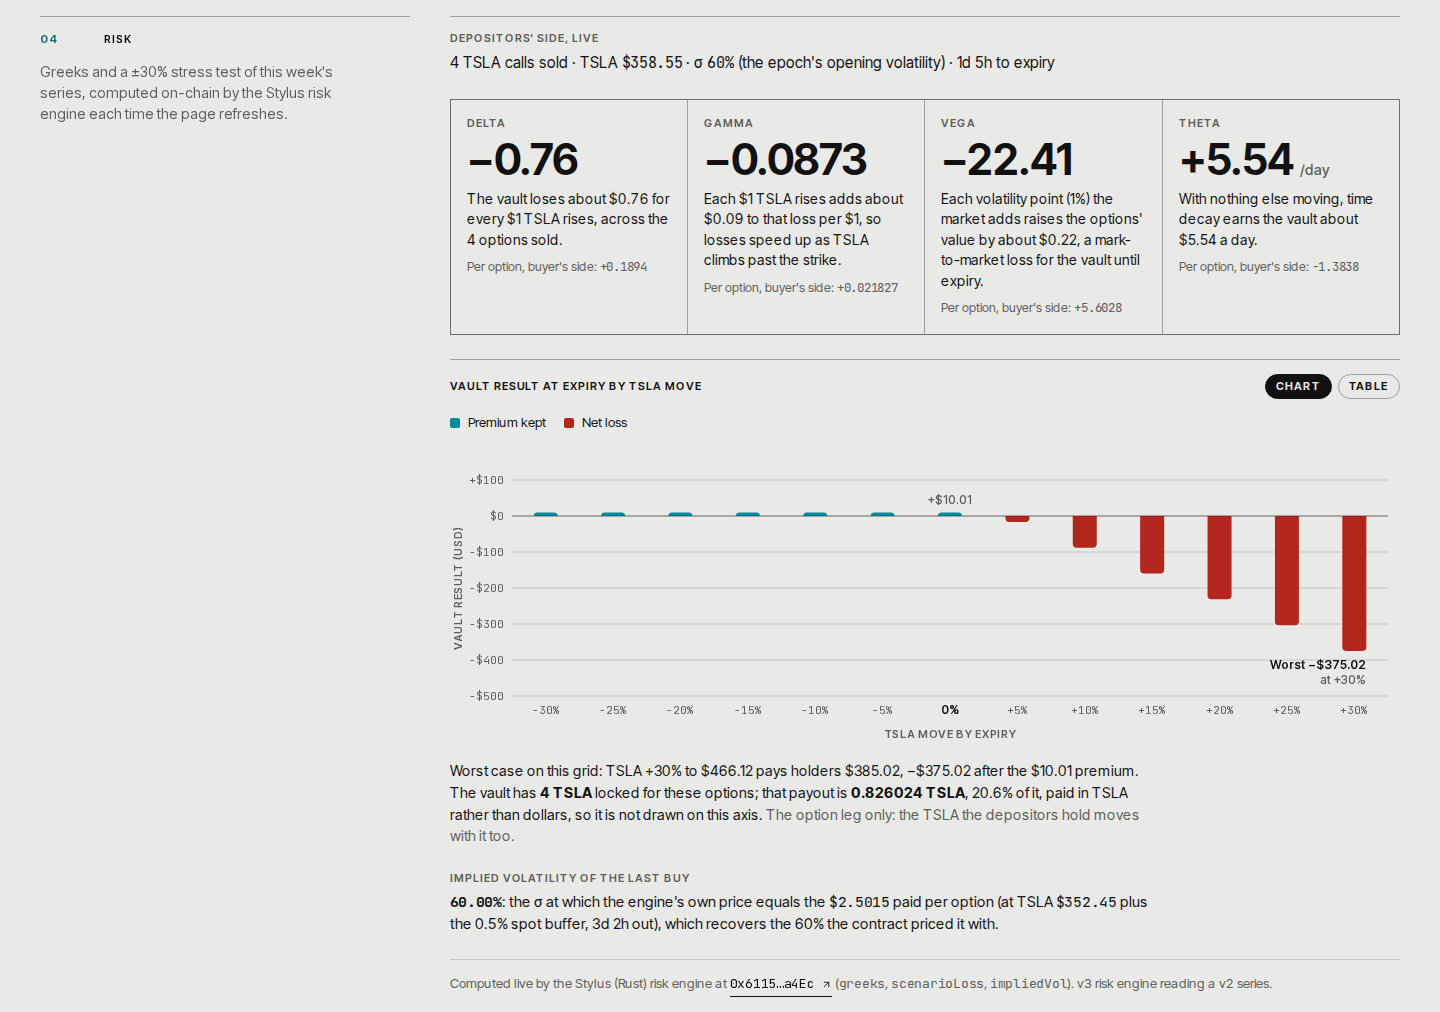
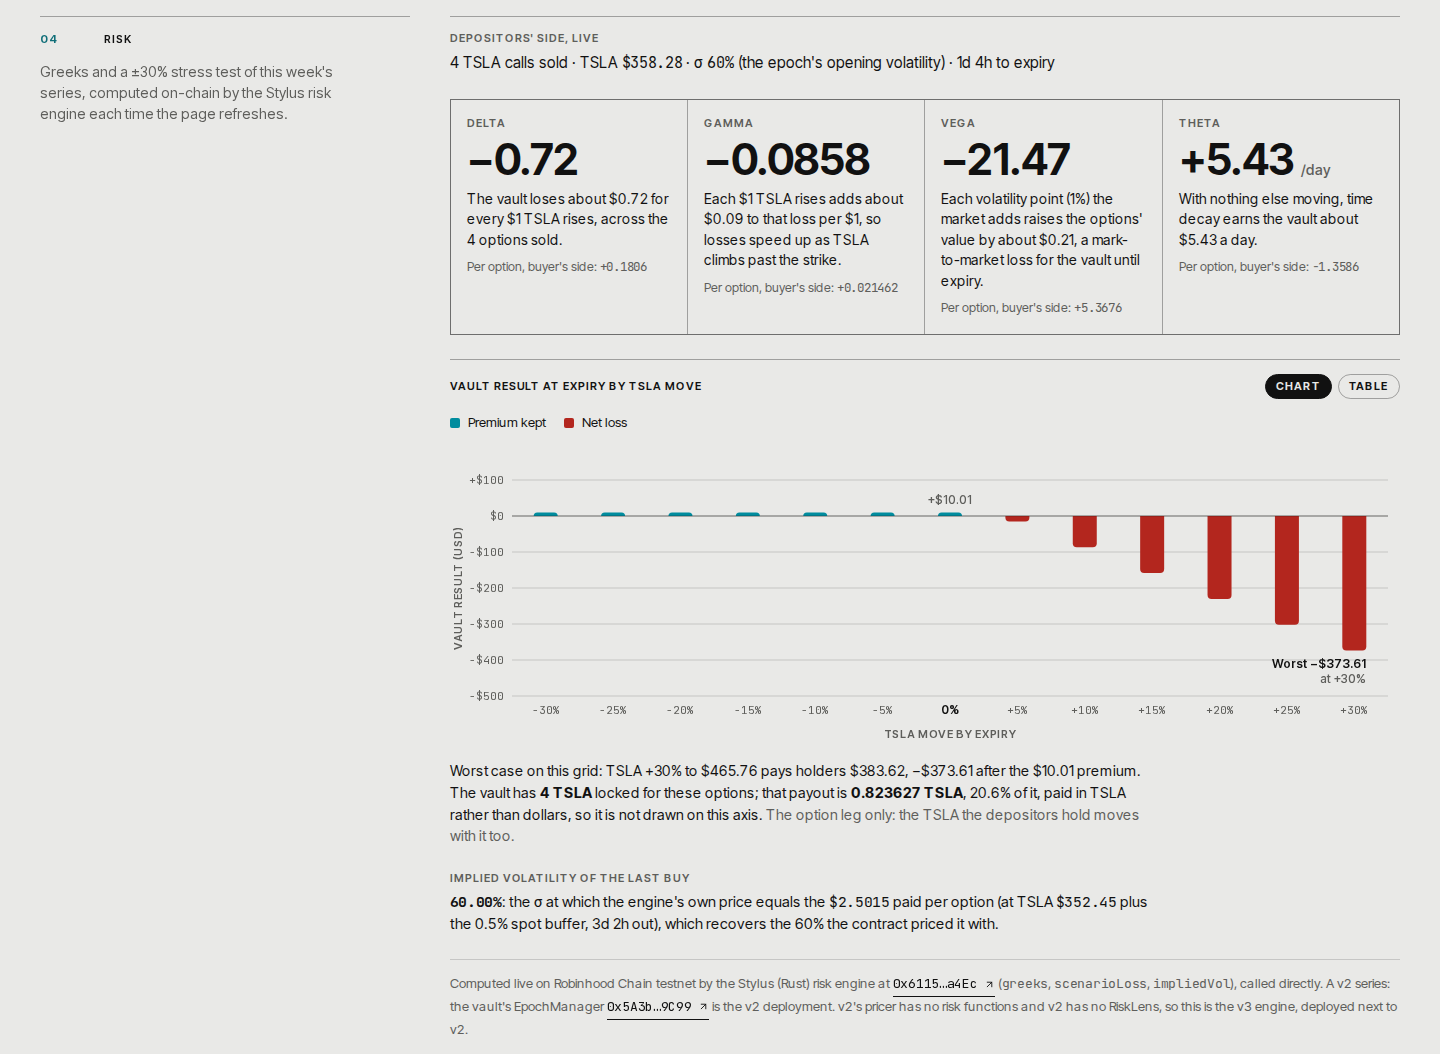
screenshots: risk panel retaken from strike-options.vercel.app on 2026-10-01 with the corrected footnote (v2 on Robinhood Chain testnet, engine called directly); new: the v3 risk panel on Arbitrum Sepolia, read through RiskLens.seriesRisk

diff --git a/README.md b/README.md
@@ -219,7 +219,7 @@ Checked against this repository and the chain on 2026-09-30. The milestone plan 
 - v3 on Robinhood Chain testnet next to v2, with its first epoch on 1 October ([log §7](docs/testnet-epochs/2026-09-30-v3.md#7-live-epoch-1-october)): Claude tried seven candidates, all inside the mandate, and chose 0.20 delta at 105% of fair value, accepted at $369.36 ([tx](https://explorer.testnet.chain.robinhood.com/tx/0xe823a351b82404077c126482ca61f6be9c1c461606b4626f55bea1898d335a45)); an at-the-money put was rejected with a 10 USDG slash, and the same transaction posted −10 feedback for identity #114 to the official ERC-8004 Reputation Registry ([tx](https://explorer.testnet.chain.robinhood.com/tx/0xa8b5eba59bbffd9203c9deab6053754df82f69396fbc03b41de2a9897de7efb2)); a separate buyer bought 4 calls for 7.38387 USDG. Both records are anchored in the v3 `DecisionLog`.
 - Agent #1 linked to ERC-8004 identity #114 on the official testnet Identity Registry.
 - Agent decisions anchored on-chain: the verified `DecisionLog` contract at [`0xbF94…5D93`](https://explorer.testnet.chain.robinhood.com/address/0xbF94f54fd0258ac59e2f54B70754dFAfFd245D93) stores the hash of each decision record, and the first anchor is the 29 September epoch log ([tx](https://explorer.testnet.chain.robinhood.com/tx/0x934ab96ba12a9ad501e20c8366fc338ab35d0550b88cc2d76fc5c39991c524c4), [tests](contracts/test/agents/DecisionLog.t.sol)).
-- A live risk panel on the vault page, the SDK's `seriesRisk` and the MCP tool `series_risk`: greeks, a ±30% stress test and the implied volatility of the last buy for the running series, computed on-chain by the v3 Stylus (Rust) risk engine ([`0x6115…a4ec`](https://explorer.testnet.chain.robinhood.com/address/0x61158d98c6c2b7ccb22755a098d0da2bbcf2a4ec)). The greeks match an independent scipy Black-Scholes to about 5e-15, and the last buy's implied volatility comes back as the 60% the contract priced it with ([test vector](sdk/test/risk.test.ts)).
+- A live risk panel on the vault page, the SDK's `seriesRisk` and the MCP tool `series_risk`: greeks, a ±30% stress test and the implied volatility of the last buy for the running series, computed on-chain by the v3 Stylus (Rust) risk engine: called directly for the v2 series on Robinhood Chain testnet ([`0x6115…a4ec`](https://explorer.testnet.chain.robinhood.com/address/0x61158d98c6c2b7ccb22755a098d0da2bbcf2a4ec)), and through `RiskLens.seriesRisk` for the v3 series on Arbitrum Sepolia ([`0x94aC…3ecE`](https://sepolia.arbiscan.io/address/0x94aC10fF1A71ceBfD825079aaf897858a9953ecE)). The panel's footnote names the contracts, the chain and the series' version. The greeks match an independent scipy Black-Scholes to about 5e-15, and the last buy's implied volatility comes back as the 60% the contract priced it with ([test vector](sdk/test/risk.test.ts)).
 - A `SafeStockFeed` conformance suite of 21 rules that any oracle wrapper can inherit and run ([`contracts/test/conformance`](contracts/test/conformance)).
 - The app at [strike-options.vercel.app](https://strike-options.vercel.app), including the mandate playground (no wallet), the mainnet stock-token monitor and the proof page.
 - Self-serve agent onboarding (register, bond, create a vault) from the app, the SDK, the MCP server and the example agent. There is no allow-list.
@@ -479,8 +479,11 @@ The live app at [strike-options.vercel.app](https://strike-options.vercel.app), 
   </tr>
   <tr>
     <td><a href="docs/screenshots/desktop-vault-arbitrum-sepolia.png"><img src="docs/screenshots/desktop-vault-arbitrum-sepolia.png" alt="The Claude-planned series on Arbitrum Sepolia: TSLA call, strike $364.29, 105% of fair value, 4 of 4 sold, 8.91 USDG premium collected, expiry Friday 2 October"></a><br><sub><b>Arbitrum Sepolia.</b> The series Claude planned: $364.29 at 105% of fair value, sold out.</sub></td>
+    <td><a href="docs/screenshots/desktop-vault-arbitrum-sepolia-risk.png"><img src="docs/screenshots/desktop-vault-arbitrum-sepolia-risk.png" alt="Risk panel on the v3 TSLA covered-call vault on Arbitrum Sepolia: depositors' delta −1.28, gamma −0.1167, vega −29.18, theta +7.39 a day, worst −$396.99 at +30% against the $8.91 premium; footnote: a v3 series, read through RiskLens (v3) seriesRisk, which called the Stylus risk engine 0x57cf…a531"></a><br><sub><b>Risk, v3.</b> The same panel on Arbitrum Sepolia, read through <code>RiskLens.seriesRisk</code> (<a href="docs/screenshots/mobile-vault-arbitrum-sepolia-risk.png">phone</a>).</sub></td>
+    <td><a href="docs/screenshots/desktop-vault-risk.png"><img src="docs/screenshots/desktop-vault-risk.png" alt="Risk panel on the v2 TSLA covered-call vault on Robinhood Chain testnet: depositors' delta −0.72, gamma −0.0858, vega −21.47, theta +5.43 a day, and the vault result at expiry from TSLA −30% to +30%, worst −$373.61 at +30%; implied volatility of the last buy 60.00%; footnote: a v2 series, computed by the v3 Stylus risk engine called directly"></a><br><sub><b>Risk, v2.</b> Greeks and a ±30% stress test on Robinhood Chain testnet, from the Rust risk engine called directly (<a href="docs/screenshots/mobile-vault-risk.png">phone</a>).</sub></td>
+  </tr>
+  <tr>
     <td><a href="docs/screenshots/desktop-agents-rejections.png"><img src="docs/screenshots/desktop-agents-rejections.png" alt="Agents page on Arbitrum Sepolia: the rejected proposals list shows agent 1's at-the-money put on 30 September, rejected with DeltaOutOfBand and 10 USDG slashed"></a><br><sub><b>Rejections.</b> Every <code>ProposalRejected</code> event, here the 10 USDG slash on Arbitrum Sepolia.</sub></td>
-    <td><a href="docs/screenshots/desktop-vault-risk.png"><img src="docs/screenshots/desktop-vault-risk.png" alt="Risk panel on the TSLA covered-call vault: depositors' delta −0.76, gamma −0.0873, vega −22.47, theta +5.53 a day, and the vault result at expiry from TSLA −30% to +30%, worst −$375.02 at +30%; implied volatility of the last buy 60.00%"></a><br><sub><b>Risk.</b> Greeks and a ±30% stress test, computed live by the Rust risk engine (<a href="docs/screenshots/mobile-vault-risk.png">phone</a>).</sub></td>
   </tr>
 </table>
 
